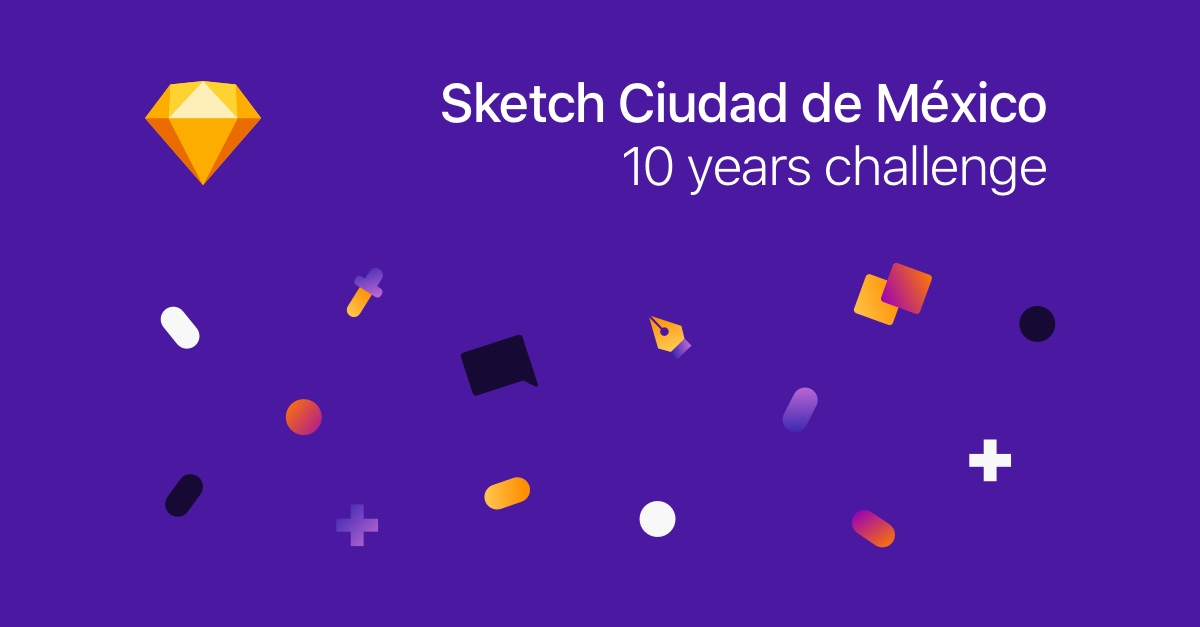
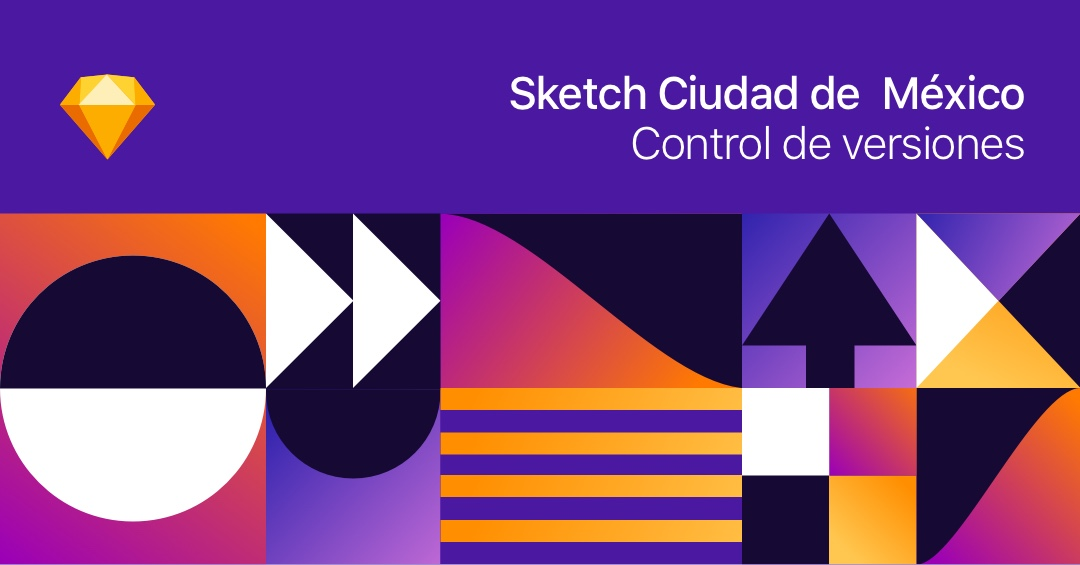
meetup 2

diff --git a/static/js/main.js b/static/js/main.js
@@ -1,1 +1,1 @@
-!function(){function e(t,n,s){function a(i,o){if(!n[i]){if(!t[i]){var u="function"==typeof require&&require;if(!o&&u)return u(i,!0);if(r)return r(i,!0);var c=new Error("Cannot find module '"+i+"'");throw c.code="MODULE_NOT_FOUND",c}var l=n[i]={exports:{}};t[i][0].call(l.exports,function(e){var n=t[i][1][e];return a(n||e)},l,l.exports,e,t,n,s)}return n[i].exports}for(var r="function"==typeof require&&require,i=0;i<s.length;i++)a(s[i]);return a}return e}()({1:[function(e,t,n){var s=function(){url="./static/img/backlog/",s=["000","001","002","003","004"],ext=".jpg",pickbgMemorie=Math.floor(Math.random()*s.length),$(".bg-random").css("background-image","url("+url+s[pickbgMemorie]+ext+")")};t.exports=s},{}],2:[function(e,t,n){var s=function(){var e=["Hello Sketch","Sketch-MX","Meetup Sketch CDMX","Hello"],t=Math.floor(Math.random()*e.length);$(document).attr("title",e[t])};t.exports=s},{}],3:[function(e,t,n){var s=function(){function e(){$(".Right").addClass("full"),$(".Left").addClass("full"),s.addClass("is-active"),$(".Detail").addClass("is-show"),$(".bg-full").addClass("is-opacity"),$(".Modal_Close").addClass("is-active"),window.matchMedia("(min-width: 400px)").matches?$("#FNAME").focus():console.log("ño")}function t(){$(".Right").removeClass("full"),$(".Left").removeClass("full"),$(".Detail").removeClass("is-show"),$(".Cta.Register").removeClass("is-hide"),$(".bg-full").removeClass("is-opacity"),$(".Modal_Close").removeClass("is-active"),s.removeClass("is-active"),$(".FormComponent").removeClass("is-hide")}function n(e,t){$.ajax({type:"GET",url:e.attr("action"),data:e.serialize(),cache:!1,dataType:"jsonp",jsonp:"c",contentType:"application/json; charset=utf-8",error:function(e){},success:function(e){if(console.log("data: ",e),a.removeClass("is-Sending").attr("disabled",!1),"success"!=e.result){var n=e.msg||"Lo sentimos, no es posible registrarse. Por favor, inténtelo de nuevo.";e.msg&&e.msg.indexOf("already subscribed")>=0&&(n='<h3 class="Success">Listo</h3> <p>Revisamos y ya te encontrabas registrado al MeetUp, ¡Gracias!</p>'),t.addClass("is-success"),$(".FormComponent").addClass("is-hide"),setTimeout(function(){t.html(n)},500),setTimeout(function(){t.removeClass("is-success").html(""),$(".FormComponent").removeClass("is-hide")},5e3)}else n='<h3 class="Success">Gracias por <br /> tu registro</h3> <p>Nos vemos el 14 de marzo 7:00 pm.</p> <p>Recuerda traer una identificación para tener acceso a Centraal.</p> <a href="#" id="BtnAgain">Registrar otro</a>',$(".FormComponent").addClass("is-hide"),t.addClass("is-success"),setTimeout(function(){t.html(n)},500)}})}var s=$("#Modal");$("#Modal__container");$("#Next").on("click",function(){s.hasClass("is-active")||(e(),$(".Cta.Register").addClass("is-hide"))}),$("body").on("click","#BtnAgain",function(e){e.preventDefault(),$(".FormComponent").removeClass("is-hide"),r.html("").removeClass("is-success"),a.removeClass("is-Sending").attr("disabled",!1),$("#mce-EMAIL").val(""),$("#FNAME").val(""),$("#LNAME").val("")});var a=$("#mc-embedded-subscribe"),r=$("#resultComponent"),i=$("#mc-embedded-subscribe-form");a.on("click",function(e){e.preventDefault(),$(this).addClass("is-Sending").attr("disabled",!0),i.validate(),i.valid()?n(i,r):(console.log("no valid"),$("#mce-EMAIL").focus(),$(this).removeClass("is-Sending").attr("disabled",!1))}),$(document).on("click",'[href="#close"]',function(e){e.preventDefault(),console.log("click close"),t()}).keydown(function(e){$("#Modal").hasClass("is-active")&&27==e.keyCode&&t()})};t.exports=s},{}],4:[function(e,t,n){var s=(e("./vendor/easing"),e("./libs/register")),a=e("./libs/pageTitles"),r=e("./libs/bgMemories");jQuery(document).ready(function(e){s(),a(),r(),e(".Cta").mouseenter(function(){e(this).parents("section").children(".bg-full").addClass("is-hover")}).mouseleave(function(){e(this).parents("section").children(".bg-full").removeClass("is-hover")})})},{"./libs/bgMemories":1,"./libs/pageTitles":2,"./libs/register":3,"./vendor/easing":5}],5:[function(e,t,n){jQuery.easing.jswing=jQuery.easing.swing,jQuery.extend(jQuery.easing,{def:"easeOutQuad",swing:function(e,t,n,s,a){return jQuery.easing[jQuery.easing.def](e,t,n,s,a)},easeInQuad:function(e,t,n,s,a){return s*(t/=a)*t+n},easeOutQuad:function(e,t,n,s,a){return-s*(t/=a)*(t-2)+n},easeInOutQuad:function(e,t,n,s,a){return(t/=a/2)<1?s/2*t*t+n:-s/2*(--t*(t-2)-1)+n},easeInCubic:function(e,t,n,s,a){return s*(t/=a)*t*t+n},easeOutCubic:function(e,t,n,s,a){return s*((t=t/a-1)*t*t+1)+n},easeInOutCubic:function(e,t,n,s,a){return(t/=a/2)<1?s/2*t*t*t+n:s/2*((t-=2)*t*t+2)+n},easeInQuart:function(e,t,n,s,a){return s*(t/=a)*t*t*t+n},easeOutQuart:function(e,t,n,s,a){return-s*((t=t/a-1)*t*t*t-1)+n},easeInOutQuart:function(e,t,n,s,a){return(t/=a/2)<1?s/2*t*t*t*t+n:-s/2*((t-=2)*t*t*t-2)+n},easeInQuint:function(e,t,n,s,a){return s*(t/=a)*t*t*t*t+n},easeOutQuint:function(e,t,n,s,a){return s*((t=t/a-1)*t*t*t*t+1)+n},easeInOutQuint:function(e,t,n,s,a){return(t/=a/2)<1?s/2*t*t*t*t*t+n:s/2*((t-=2)*t*t*t*t+2)+n},easeInSine:function(e,t,n,s,a){return-s*Math.cos(t/a*(Math.PI/2))+s+n},easeOutSine:function(e,t,n,s,a){return s*Math.sin(t/a*(Math.PI/2))+n},easeInOutSine:function(e,t,n,s,a){return-s/2*(Math.cos(Math.PI*t/a)-1)+n},easeInExpo:function(e,t,n,s,a){return 0==t?n:s*Math.pow(2,10*(t/a-1))+n},easeOutExpo:function(e,t,n,s,a){return t==a?n+s:s*(-Math.pow(2,-10*t/a)+1)+n},easeInOutExpo:function(e,t,n,s,a){return 0==t?n:t==a?n+s:(t/=a/2)<1?s/2*Math.pow(2,10*(t-1))+n:s/2*(-Math.pow(2,-10*--t)+2)+n},easeInCirc:function(e,t,n,s,a){return-s*(Math.sqrt(1-(t/=a)*t)-1)+n},easeOutCirc:function(e,t,n,s,a){return s*Math.sqrt(1-(t=t/a-1)*t)+n},easeInOutCirc:function(e,t,n,s,a){return(t/=a/2)<1?-s/2*(Math.sqrt(1-t*t)-1)+n:s/2*(Math.sqrt(1-(t-=2)*t)+1)+n},easeInElastic:function(e,t,n,s,a){var r=1.70158,i=0,o=s;if(0==t)return n;if(1==(t/=a))return n+s;if(i||(i=.3*a),o<Math.abs(s)){o=s;var r=i/4}else var r=i/(2*Math.PI)*Math.asin(s/o);return-(o*Math.pow(2,10*(t-=1))*Math.sin((t*a-r)*(2*Math.PI)/i))+n},easeOutElastic:function(e,t,n,s,a){var r=1.70158,i=0,o=s;if(0==t)return n;if(1==(t/=a))return n+s;if(i||(i=.3*a),o<Math.abs(s)){o=s;var r=i/4}else var r=i/(2*Math.PI)*Math.asin(s/o);return o*Math.pow(2,-10*t)*Math.sin((t*a-r)*(2*Math.PI)/i)+s+n},easeInOutElastic:function(e,t,n,s,a){var r=1.70158,i=0,o=s;if(0==t)return n;if(2==(t/=a/2))return n+s;if(i||(i=a*(.3*1.5)),o<Math.abs(s)){o=s;var r=i/4}else var r=i/(2*Math.PI)*Math.asin(s/o);return t<1?-.5*(o*Math.pow(2,10*(t-=1))*Math.sin((t*a-r)*(2*Math.PI)/i))+n:o*Math.pow(2,-10*(t-=1))*Math.sin((t*a-r)*(2*Math.PI)/i)*.5+s+n},easeInBack:function(e,t,n,s,a,r){return void 0==r&&(r=1.70158),s*(t/=a)*t*((r+1)*t-r)+n},easeOutBack:function(e,t,n,s,a,r){return void 0==r&&(r=1.70158),s*((t=t/a-1)*t*((r+1)*t+r)+1)+n},easeInOutBack:function(e,t,n,s,a,r){return void 0==r&&(r=1.70158),(t/=a/2)<1?s/2*(t*t*(((r*=1.525)+1)*t-r))+n:s/2*((t-=2)*t*(((r*=1.525)+1)*t+r)+2)+n},easeInBounce:function(e,t,n,s,a){return s-jQuery.easing.easeOutBounce(e,a-t,0,s,a)+n},easeOutBounce:function(e,t,n,s,a){return(t/=a)<1/2.75?s*(7.5625*t*t)+n:t<2/2.75?s*(7.5625*(t-=1.5/2.75)*t+.75)+n:t<2.5/2.75?s*(7.5625*(t-=2.25/2.75)*t+.9375)+n:s*(7.5625*(t-=2.625/2.75)*t+.984375)+n},easeInOutBounce:function(e,t,n,s,a){return t<a/2?.5*jQuery.easing.easeInBounce(e,2*t,0,s,a)+n:.5*jQuery.easing.easeOutBounce(e,2*t-a,0,s,a)+.5*s+n}})},{}]},{},[4]);
+!function(){function e(t,n,s){function a(i,o){if(!n[i]){if(!t[i]){var u="function"==typeof require&&require;if(!o&&u)return u(i,!0);if(r)return r(i,!0);var c=new Error("Cannot find module '"+i+"'");throw c.code="MODULE_NOT_FOUND",c}var l=n[i]={exports:{}};t[i][0].call(l.exports,function(e){var n=t[i][1][e];return a(n||e)},l,l.exports,e,t,n,s)}return n[i].exports}for(var r="function"==typeof require&&require,i=0;i<s.length;i++)a(s[i]);return a}return e}()({1:[function(e,t,n){var s=function(){url="./static/img/backlog/",s=["000","001","002","003","004","005"],ext=".jpg",pickbgMemorie=Math.floor(Math.random()*s.length),$(".bg-random").css("background-image","url("+url+s[pickbgMemorie]+ext+")")};t.exports=s},{}],2:[function(e,t,n){var s=function(){var e=["Hello Sketch","Sketch-MX","Meetup Sketch CDMX","Hello"],t=Math.floor(Math.random()*e.length);$(document).attr("title",e[t])};t.exports=s},{}],3:[function(e,t,n){var s=function(){function e(){$(".Right").addClass("full"),$(".Left").addClass("full"),s.addClass("is-active"),$(".Detail").addClass("is-show"),$(".bg-full").addClass("is-opacity"),$(".Modal_Close").addClass("is-active"),window.matchMedia("(min-width: 400px)").matches?$("#FNAME").focus():console.log("ño")}function t(){$(".Right").removeClass("full"),$(".Left").removeClass("full"),$(".Detail").removeClass("is-show"),$(".Cta.Register").removeClass("is-hide"),$(".bg-full").removeClass("is-opacity"),$(".Modal_Close").removeClass("is-active"),s.removeClass("is-active"),$(".FormComponent").removeClass("is-hide")}function n(e,t){$.ajax({type:"GET",url:e.attr("action"),data:e.serialize(),cache:!1,dataType:"jsonp",jsonp:"c",contentType:"application/json; charset=utf-8",error:function(e){},success:function(e){if(console.log("data: ",e),a.removeClass("is-Sending").attr("disabled",!1),"success"!=e.result){var n=e.msg||"Lo sentimos, no es posible registrarse. Por favor, inténtelo de nuevo.";e.msg&&e.msg.indexOf("already subscribed")>=0&&(n='<h3 class="Success">Listo</h3> <p>Revisamos y ya te encontrabas registrado al MeetUp, ¡Gracias!</p>'),t.addClass("is-success"),$(".FormComponent").addClass("is-hide"),setTimeout(function(){t.html(n)},500),setTimeout(function(){t.removeClass("is-success").html(""),$(".FormComponent").removeClass("is-hide")},5e3)}else n='<h3 class="Success">Gracias por <br /> tu registro</h3> <p>Nos vemos el 14 de marzo 7:00 pm.</p> <p>Recuerda traer una identificación para tener acceso a Centraal.</p> <a href="#" id="BtnAgain">Registrar otro</a>',$(".FormComponent").addClass("is-hide"),t.addClass("is-success"),setTimeout(function(){t.html(n)},500)}})}var s=$("#Modal");$("#Modal__container");$("#Next").on("click",function(){s.hasClass("is-active")||(e(),$(".Cta.Register").addClass("is-hide"))}),$("body").on("click","#BtnAgain",function(e){e.preventDefault(),$(".FormComponent").removeClass("is-hide"),r.html("").removeClass("is-success"),a.removeClass("is-Sending").attr("disabled",!1),$("#mce-EMAIL").val(""),$("#FNAME").val(""),$("#LNAME").val("")});var a=$("#mc-embedded-subscribe"),r=$("#resultComponent"),i=$("#mc-embedded-subscribe-form");a.on("click",function(e){e.preventDefault(),$(this).addClass("is-Sending").attr("disabled",!0),i.validate(),i.valid()?n(i,r):(console.log("no valid"),$("#mce-EMAIL").focus(),$(this).removeClass("is-Sending").attr("disabled",!1))}),$(document).on("click",'[href="#close"]',function(e){e.preventDefault(),console.log("click close"),t()}).keydown(function(e){$("#Modal").hasClass("is-active")&&27==e.keyCode&&t()})};t.exports=s},{}],4:[function(e,t,n){var s=(e("./vendor/easing"),e("./libs/register")),a=e("./libs/pageTitles"),r=e("./libs/bgMemories");jQuery(document).ready(function(e){s(),a(),r(),e(".Cta").mouseenter(function(){e(this).parents("section").children(".bg-full").addClass("is-hover")}).mouseleave(function(){e(this).parents("section").children(".bg-full").removeClass("is-hover")})})},{"./libs/bgMemories":1,"./libs/pageTitles":2,"./libs/register":3,"./vendor/easing":5}],5:[function(e,t,n){jQuery.easing.jswing=jQuery.easing.swing,jQuery.extend(jQuery.easing,{def:"easeOutQuad",swing:function(e,t,n,s,a){return jQuery.easing[jQuery.easing.def](e,t,n,s,a)},easeInQuad:function(e,t,n,s,a){return s*(t/=a)*t+n},easeOutQuad:function(e,t,n,s,a){return-s*(t/=a)*(t-2)+n},easeInOutQuad:function(e,t,n,s,a){return(t/=a/2)<1?s/2*t*t+n:-s/2*(--t*(t-2)-1)+n},easeInCubic:function(e,t,n,s,a){return s*(t/=a)*t*t+n},easeOutCubic:function(e,t,n,s,a){return s*((t=t/a-1)*t*t+1)+n},easeInOutCubic:function(e,t,n,s,a){return(t/=a/2)<1?s/2*t*t*t+n:s/2*((t-=2)*t*t+2)+n},easeInQuart:function(e,t,n,s,a){return s*(t/=a)*t*t*t+n},easeOutQuart:function(e,t,n,s,a){return-s*((t=t/a-1)*t*t*t-1)+n},easeInOutQuart:function(e,t,n,s,a){return(t/=a/2)<1?s/2*t*t*t*t+n:-s/2*((t-=2)*t*t*t-2)+n},easeInQuint:function(e,t,n,s,a){return s*(t/=a)*t*t*t*t+n},easeOutQuint:function(e,t,n,s,a){return s*((t=t/a-1)*t*t*t*t+1)+n},easeInOutQuint:function(e,t,n,s,a){return(t/=a/2)<1?s/2*t*t*t*t*t+n:s/2*((t-=2)*t*t*t*t+2)+n},easeInSine:function(e,t,n,s,a){return-s*Math.cos(t/a*(Math.PI/2))+s+n},easeOutSine:function(e,t,n,s,a){return s*Math.sin(t/a*(Math.PI/2))+n},easeInOutSine:function(e,t,n,s,a){return-s/2*(Math.cos(Math.PI*t/a)-1)+n},easeInExpo:function(e,t,n,s,a){return 0==t?n:s*Math.pow(2,10*(t/a-1))+n},easeOutExpo:function(e,t,n,s,a){return t==a?n+s:s*(-Math.pow(2,-10*t/a)+1)+n},easeInOutExpo:function(e,t,n,s,a){return 0==t?n:t==a?n+s:(t/=a/2)<1?s/2*Math.pow(2,10*(t-1))+n:s/2*(-Math.pow(2,-10*--t)+2)+n},easeInCirc:function(e,t,n,s,a){return-s*(Math.sqrt(1-(t/=a)*t)-1)+n},easeOutCirc:function(e,t,n,s,a){return s*Math.sqrt(1-(t=t/a-1)*t)+n},easeInOutCirc:function(e,t,n,s,a){return(t/=a/2)<1?-s/2*(Math.sqrt(1-t*t)-1)+n:s/2*(Math.sqrt(1-(t-=2)*t)+1)+n},easeInElastic:function(e,t,n,s,a){var r=1.70158,i=0,o=s;if(0==t)return n;if(1==(t/=a))return n+s;if(i||(i=.3*a),o<Math.abs(s)){o=s;var r=i/4}else var r=i/(2*Math.PI)*Math.asin(s/o);return-(o*Math.pow(2,10*(t-=1))*Math.sin((t*a-r)*(2*Math.PI)/i))+n},easeOutElastic:function(e,t,n,s,a){var r=1.70158,i=0,o=s;if(0==t)return n;if(1==(t/=a))return n+s;if(i||(i=.3*a),o<Math.abs(s)){o=s;var r=i/4}else var r=i/(2*Math.PI)*Math.asin(s/o);return o*Math.pow(2,-10*t)*Math.sin((t*a-r)*(2*Math.PI)/i)+s+n},easeInOutElastic:function(e,t,n,s,a){var r=1.70158,i=0,o=s;if(0==t)return n;if(2==(t/=a/2))return n+s;if(i||(i=a*(.3*1.5)),o<Math.abs(s)){o=s;var r=i/4}else var r=i/(2*Math.PI)*Math.asin(s/o);return t<1?-.5*(o*Math.pow(2,10*(t-=1))*Math.sin((t*a-r)*(2*Math.PI)/i))+n:o*Math.pow(2,-10*(t-=1))*Math.sin((t*a-r)*(2*Math.PI)/i)*.5+s+n},easeInBack:function(e,t,n,s,a,r){return void 0==r&&(r=1.70158),s*(t/=a)*t*((r+1)*t-r)+n},easeOutBack:function(e,t,n,s,a,r){return void 0==r&&(r=1.70158),s*((t=t/a-1)*t*((r+1)*t+r)+1)+n},easeInOutBack:function(e,t,n,s,a,r){return void 0==r&&(r=1.70158),(t/=a/2)<1?s/2*(t*t*(((r*=1.525)+1)*t-r))+n:s/2*((t-=2)*t*(((r*=1.525)+1)*t+r)+2)+n},easeInBounce:function(e,t,n,s,a){return s-jQuery.easing.easeOutBounce(e,a-t,0,s,a)+n},easeOutBounce:function(e,t,n,s,a){return(t/=a)<1/2.75?s*(7.5625*t*t)+n:t<2/2.75?s*(7.5625*(t-=1.5/2.75)*t+.75)+n:t<2.5/2.75?s*(7.5625*(t-=2.25/2.75)*t+.9375)+n:s*(7.5625*(t-=2.625/2.75)*t+.984375)+n},easeInOutBounce:function(e,t,n,s,a){return t<a/2?.5*jQuery.easing.easeInBounce(e,2*t,0,s,a)+n:.5*jQuery.easing.easeOutBounce(e,2*t-a,0,s,a)+.5*s+n}})},{}]},{},[4]);

diff --git a/index.html b/index.html
@@ -76,7 +76,7 @@
 
 		<div class="Right">
 			<section id="Next" style="background-color: #4B19A1;">
-				<div class="bg-full" style="background-image: url('./static/img/next.jpg')"></div>
+				<div class="bg-full" style="background-image: url('./static/img/version-control.jpg')"></div>
 				<div class="Modal" id="Modal">
 					<div class="Container">
 						<a href="#close" class="Modal_Close">
@@ -85,21 +85,21 @@
 
 						<div class="Headline">
 							<p class="Label">Próximo Meetup</p>
-							<h2 class="Title">10 years challenge</h2>
-							<p class="Caption"> 14 de marzo 2019 - Centraal </p>
+							<h2 class="Title">Control de versiones</h2>
+							<p class="Caption"> 9 de mayo 2019 - Centraal </p>
 							<span href="#" class="Cta Register">Acompáñanos</a>
 						</div>
 
 						<div class="Detail">
 							<section class="Description">
-								<p>El meetup de Sketch 💎 regresa el próximo 14 de marzo en <a href="https://goo.gl/maps/vqAKnNuHy9F2" target="_blank" class="Link_address">Centraal</a>!!! Será nuestra primer sesión del año, estarémos hablando sobre la evolución de herramientas y proceso para el diseño de interfaz en los últimos 10 años.</p>
+								<p>El meetup de Sketch 💎 regresa el próximo 09 de mayo en <a href="https://goo.gl/maps/vqAKnNuHy9F2" target="_blank" class="Link_address">Centraal</a>!!! Será nuestra segunda sesión del año, estarémos hablando sobre la importancia del control de versiones dentro del flujo de trabajo en el diseño de producto.</p>
 
 								
 								<h4 class="SubTitle">👇 La Agenda 👇</h4>
 								<ul>
 									<li>6:50 / 7:15 Ingreso</li>
 									<li>7:15 / 7:30 Presentación</li>
-									<li>7:30 / 8:30 10 Years Challenge</li>
+									<li>7:30 / 8:30 Control de versiones</li>
 									<li>8:30 Swag y licencias</li>
 								</ul>
 							
@@ -107,7 +107,7 @@
 							
 							<section class="FormComponent">
 								
-								<h3>Registro cerrado</h3>
+								<h3>Próximamente</h3>
 							</section> <!-- /Form -->	
 						</div> <!-- /Detail -->	
 					</div>

diff --git a/src/js/libs/bgMemories.js b/src/js/libs/bgMemories.js
@@ -5,7 +5,7 @@ var bgMemories = function(){
 	
 
 	url = "./static/img/backlog/",
-	bgMemories = ["000", "001", "002", "003", "004"],
+	bgMemories = ["000", "001", "002", "003", "004", "005"],
 	ext = ".jpg",
 	pickbgMemorie = Math.floor(Math.random()*bgMemories.length);
 
